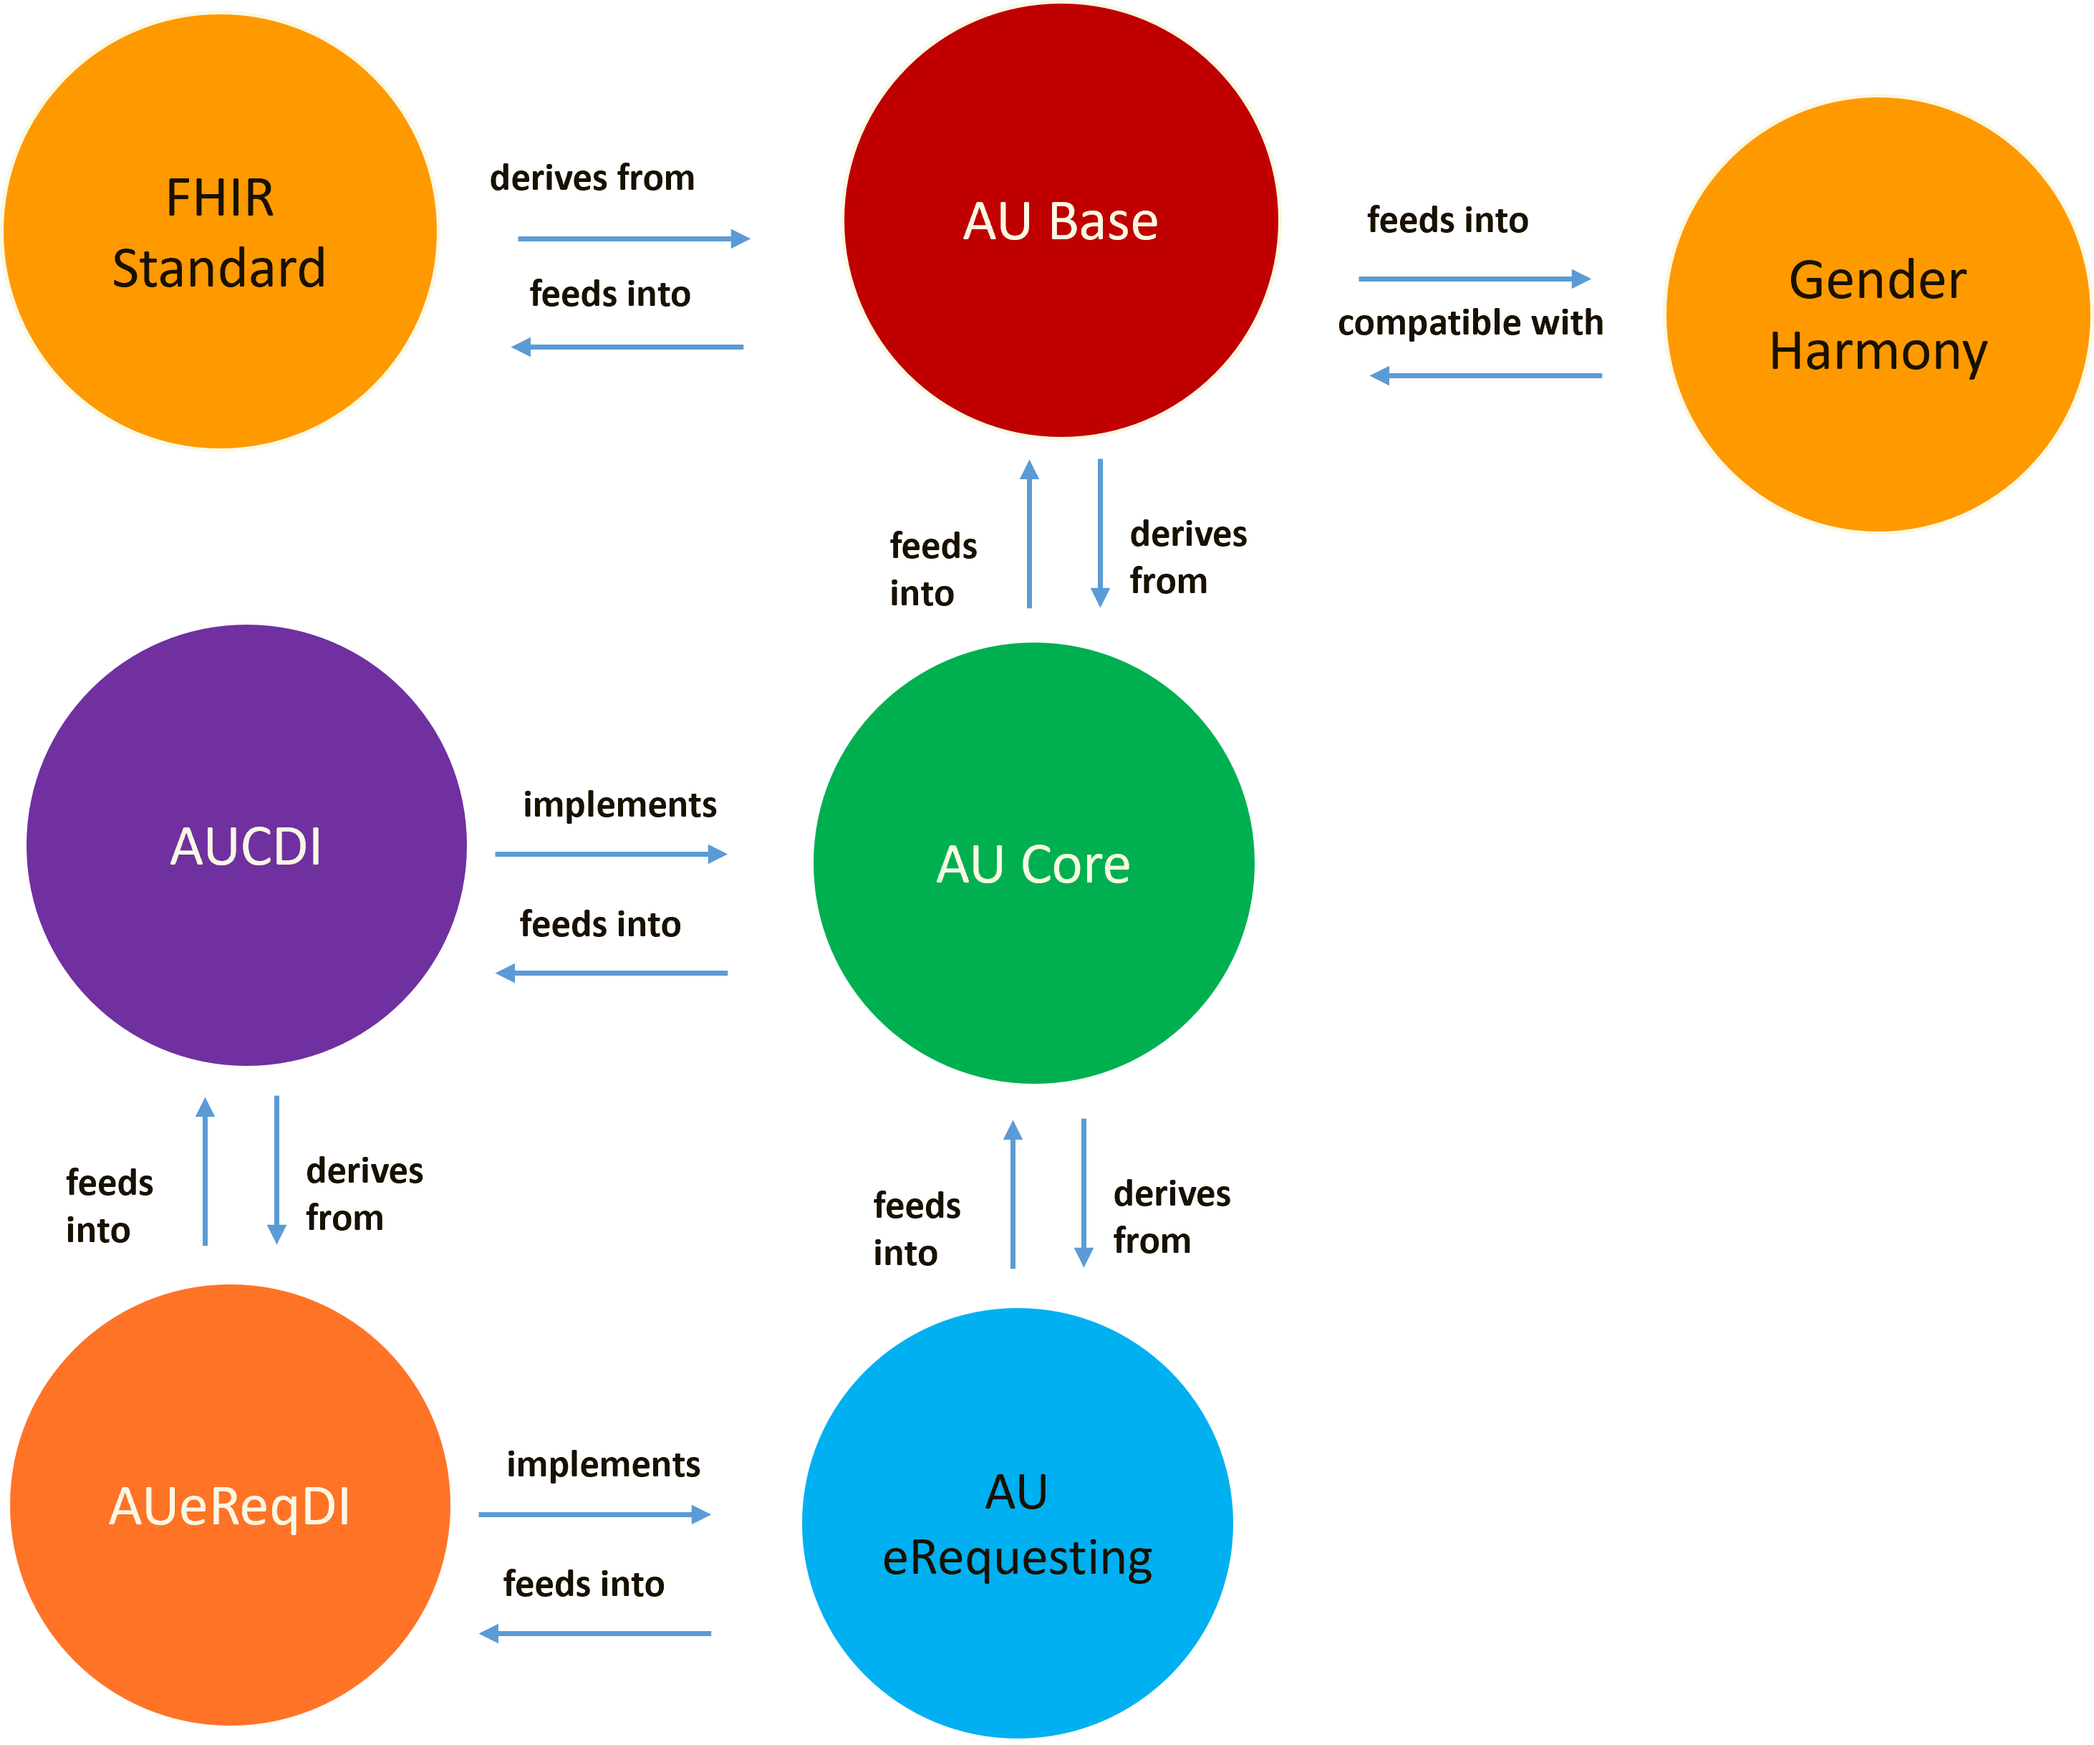
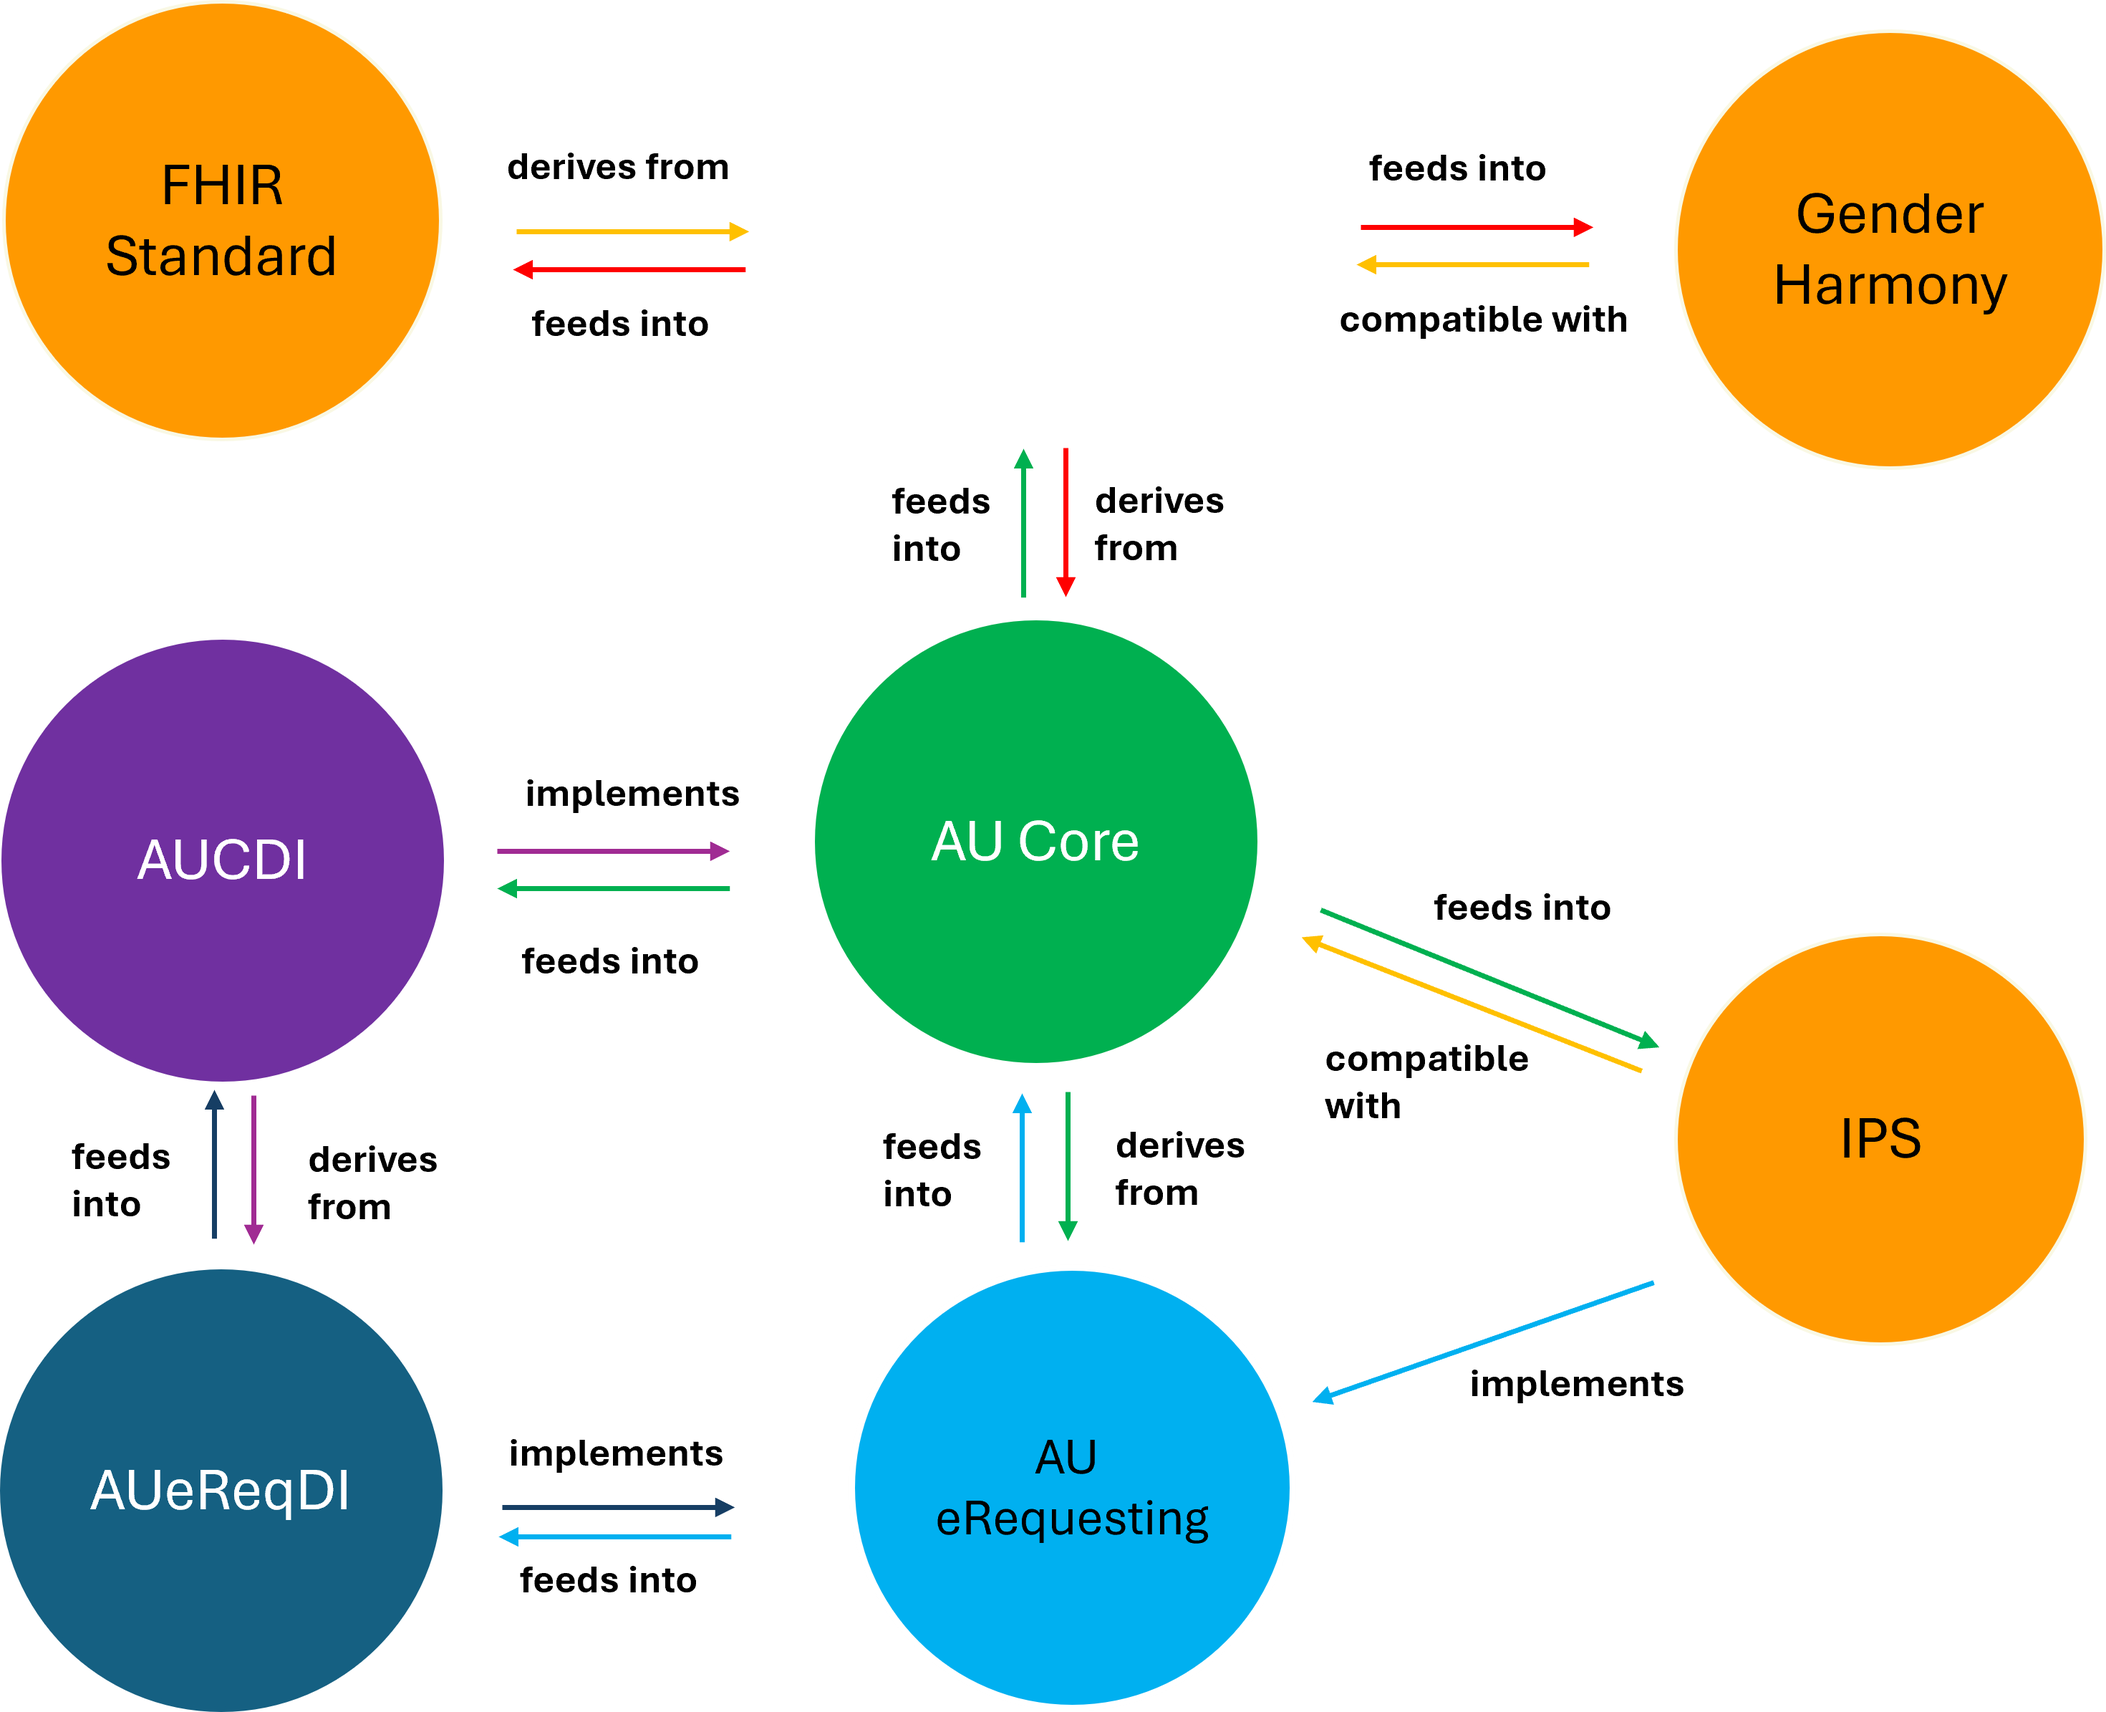
Changes for FHIR-52284

diff --git a/input/pagecontent/relationship.md b/input/pagecontent/relationship.md
@@ -34,8 +34,9 @@ The relationship of AU eRequesting to AUeReqDI and other implementation guides i
 Implementation Guide |Relationship
 ---|---
 [AU Base](https://build.fhir.org/ig/hl7au/au-fhir-base/)|This IG defines Australian realm concepts including terminology, identifiers, and extensions. AU eRequesting uses AU Base, where available, as the basis for profiles that define the FHIR resources to be supported, and the elements, extensions, vocabularies, and value sets that SHALL be present are identified, and how they are used is defined. Where adopted, these concepts are included by reference in AU Base and profiled in AU Core and AU eRequesting.
-[AU Core](https://build.fhir.org/ig/hl7au/au-fhir-core/)|This IG defines a set of conformance requirements that enforce a set of ‘minimum requirements’ on the local concepts from AU Base, specifying the elements, extensions, vocabularies, and value sets that SHALL be present and how they SHALL be used. AU Core also defines a data access API, specifying the conformance requirements for RESTful interactions.
 [HL7 Cross Paradigm Implementation Guide: Gender Harmony - Sex and Gender Representation](https://hl7.org/xprod/ig/uv/gender-harmony/informative1/)|This IG provides definitive guidance on how to exchange clinical sex and gender affirming information using HL7 models. Sex and gender concepts from this IG have been reviewed for the potential for adoption in Australia. Where adopted, these concepts are included by reference in AU Base and are available for use in AU Core and AU eRequesting via inheritance from AU Base.
+[AU Core](https://build.fhir.org/ig/hl7au/au-fhir-core/)|This IG defines a set of conformance requirements that enforce a set of ‘minimum requirements’ on the local concepts from AU Base, specifying the elements, extensions, vocabularies, and value sets that SHALL be present and how they SHALL be used. AU Core also defines a data access API, specifying the conformance requirements for RESTful interactions.
+[International Patient Summary 2.0.0](https://build.fhir.org/ig/HL7/fhir-ips/)|This IG describes how to represent in HL7 FHIR the International Patient Summary (IPS). An International Patient Summary (IPS) document is an electronic health record extract containing essential healthcare information about a subject of care. AU eRequesting supports selected IPS profiles.
 {:.grid}
 
 
